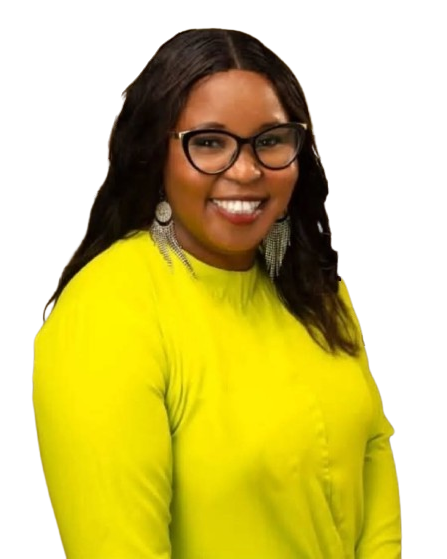
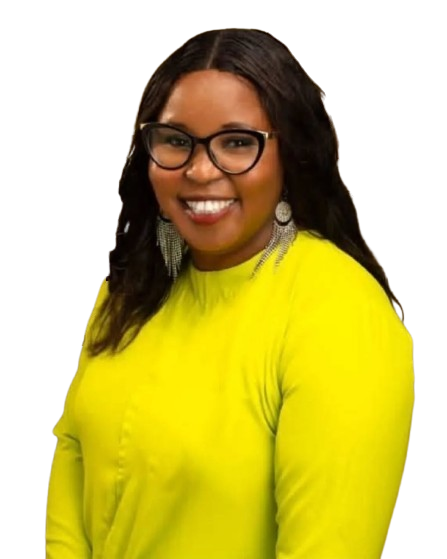
3rd April First Commit

diff --git a/src/css/Profile.css b/src/css/Profile.css
@@ -63,7 +63,7 @@
     align-items: center;
     justify-content: center;
     width: 85%;
-    height: 40vh;
+    height: 50vh;
     position: relative;
     top: -10px;
     gap: 10px;
@@ -116,35 +116,39 @@
   
   
   .profile .container .section1 .col2{
-      width: 30%;
+      width: 40%;
       height: 40vh;
       display: flex;
       flex-direction: row;
       align-items: center;
       justify-content: center;
-      padding: 20px;
-      /* padding: 10px; */
+      /* padding: 20px; */
+      padding: 10px;
       /* border-radius: 10px; */
       border: none;
-      /* background-color: #d0b6fa; */
-      gap: 16px;
+      background-color: #d0b6fa;
+      /* gap: 16px; */
       object-fit: cover;
-      /* border-top-right-radius: 10px;
-      border-bottom-right-radius: 10px; */
+      border-top-left-radius: 10px;
+      border-bottom-left-radius: 10px;
     }
   
   .profile .section1 .col2 img {
-    width: 100%;
+    width: 110%;
     height: 50vh;
     position: relative;
     top: 40px;
     /* object-fit: cover; */
-    border-radius: 10px;
+    /* border-radius: 10px; */
     /* border: 1px solid #a81590; */
   }
 
   .profile .section1 .col2 h1{
-    font-size: 18px;
+    width: 40%;
+    font-size: 15px;
+    position: relative;
+    left: 60px;
+    /* text-align: left; */
   }
 
 
@@ -309,8 +313,8 @@
   
     .profile .container .section1 .col2 {
       width: 40%;
-      height: 60vh;
-      background: transparent;
+      /* height: 60vh; */
+      /* background: transparent; */
       /* display: flex; */
       /* border-radius: 10px; */
     }
@@ -319,7 +323,7 @@
       width: 100%;
       height: 55vh;
       position: relative;
-      top: 15px;
+      top: 45px;
     }
   }
 
@@ -338,7 +342,7 @@
     }
     .profile .section1 {
       width: 85%;
-      height: 85vh;
+      height: 75vh;
       position: relative;
       top: -10px;
       gap: 10px;
@@ -360,16 +364,16 @@
     }
 
     .profile .section1 .col2 img {
-      width: 120%;
-      height: 75vh;
+      width: 100%;
+      height: 60vh;
       position: relative;
-      top: 35px;
+      top: 55px;
     }
 
     .profile .section1 .col2 h1{
       font-size: 18px;
       position: relative;
-      left: 20px;
+      left: 30px;
     }
   
 
@@ -489,7 +493,7 @@
   
     .profile .container .section1 {
       width: 90%;
-      height: 80vh;
+      height: 70vh;
       position: relative;
       top: 0px;
       gap: 20px;
@@ -659,7 +663,7 @@
     font-size: 15px;
     position: relative;
     top: 140px;
-    left: -120px;
+    left: -80px;
   }
 
 

diff --git a/src/components/Services.js b/src/components/Services.js
@@ -5,8 +5,8 @@ import React from "react";
 
 // import { Link } from "react-router-dom";
 
-import Pix1 from "./img/marriage-family-therapy.jpg";
-import Pix2 from "./img/mental-therapy.jpg";
+import Pix1 from "./img/mental-therapy.jpg";
+import Pix2 from "./img/marriage-family-therapy.jpg";
 import Pix3 from "./img/substance-use-therapy.jpg";
 import Pix4 from "./img/black-girl-therapy.jpg";
 import Pix5 from "./img/black-man-presented-engagement-ring-his-girlfriend-restaurant.jpg";
@@ -47,25 +47,26 @@ function Services() {
           </div> */}
           <div className="row2">
             {/* <Slider {...settings}> */}
+              
               <div className="col">
                 <div className="box">
                   <img src={Pix1} alt="" className="Img-1" />
-                  <h2>Marriage & Family Therapy</h2>
+                  <h2>Mental Health & Emotional Wellness Counseling</h2>
                   <p>
-                    Helping couples and families strengthen their relationships,
-                    improve communication, and resolve conflicts in a healthy,
-                    lasting way.
+                    Supporting individuals struggling with anxiety, depression,
+                    trauma, and other mental health challenges through therapy
+                    that fosters healing and personal development.
                   </p>
                 </div>
               </div>
               <div className="col">
                 <div className="box">
                   <img src={Pix2} alt="" className="Img-1" />
-                  <h2>Mental Health & Emotional Wellness Counseling</h2>
+                  <h2>Marriage & Family Therapy</h2>
                   <p>
-                    Supporting individuals struggling with anxiety, depression,
-                    trauma, and other mental health challenges through therapy
-                    that fosters healing and personal development.
+                    Helping couples and families strengthen their relationships,
+                    improve communication, and resolve conflicts in a healthy,
+                    lasting way.
                   </p>
                 </div>
               </div>

diff --git a/src/components/Resources.js b/src/components/Resources.js
@@ -2,8 +2,8 @@ import React from "react";
 import { Link } from "react-router-dom";
 
 import Pix1 from "./img/Book-3.jpeg";
-import Pix2 from "./img/Book-2.jpeg";
-import Pix3 from "./img/Book-1.jpeg";
+import Pix2 from "./img/Book-1.jpeg";
+import Pix3 from "./img/Book-2.jpeg";
 
 function Resources() {
   return (
@@ -23,14 +23,15 @@ function Resources() {
             </Link>
           </div>
           <div className="grid2">
-            <img src={Pix2} alt="" className="Img-1" />
-            <p>Coming Soon</p>
+          <img src={Pix2} alt="" className="Img-1" />
+            
+            <p>Now Out</p>
             <Link to="">
-              <button>Pre-order</button>
+              <button>Order</button>
             </Link>
           </div>
           <div className="grid3">
-            <img src={Pix3} alt="" className="Img-1" />
+          <img src={Pix3} alt="" className="Img-1" />
             <p>Coming Soon</p>
             <Link to="">
               <button>Pre-order</button>

diff --git a/src/components/Footer.js b/src/components/Footer.js
@@ -68,7 +68,7 @@ function Footer() {
         <div className="copy">
           <p>
             Copyright <PiCopyright className="cpy" /> 2025 Unleash Coaching &
-            Counseling. All rights reserved. Designed & Developed by Techit
+            Counseling. All rights reserved. Designed & Developed by Techit @ +2347066758468
           </p>
         </div>
       </div>

diff --git a/src/components/Contact.js b/src/components/Contact.js
@@ -50,7 +50,7 @@ function Contact() {
       setErr(false);
     }
 
-    emailjs.sendForm('service_k7rwmag', 'template_id', e.target, 'public_key');
+    // emailjs.sendForm('service_k7rwmag', 'template_id', e.target, 'public_key');
     alert("submit")
   };
 

diff --git a/src/components/Profile.js b/src/components/Profile.js
@@ -1,7 +1,7 @@
 import React from "react";
 // import { Link } from "react-router-dom";
 
-import Pix1 from "./img/da-4.png";
+import Pix1 from "./img/da-31.png";
 
 function Profile() {
   return (
